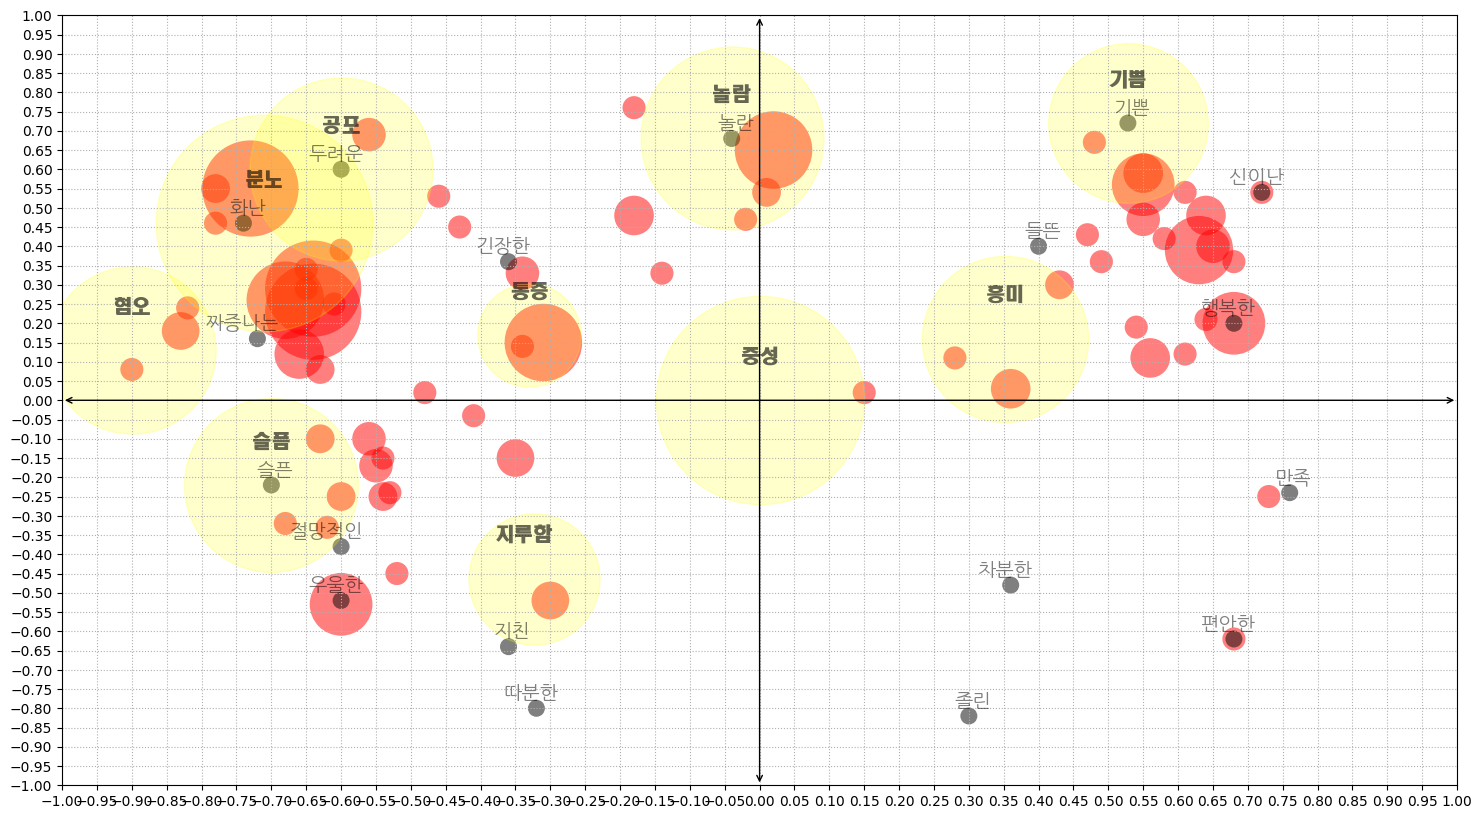
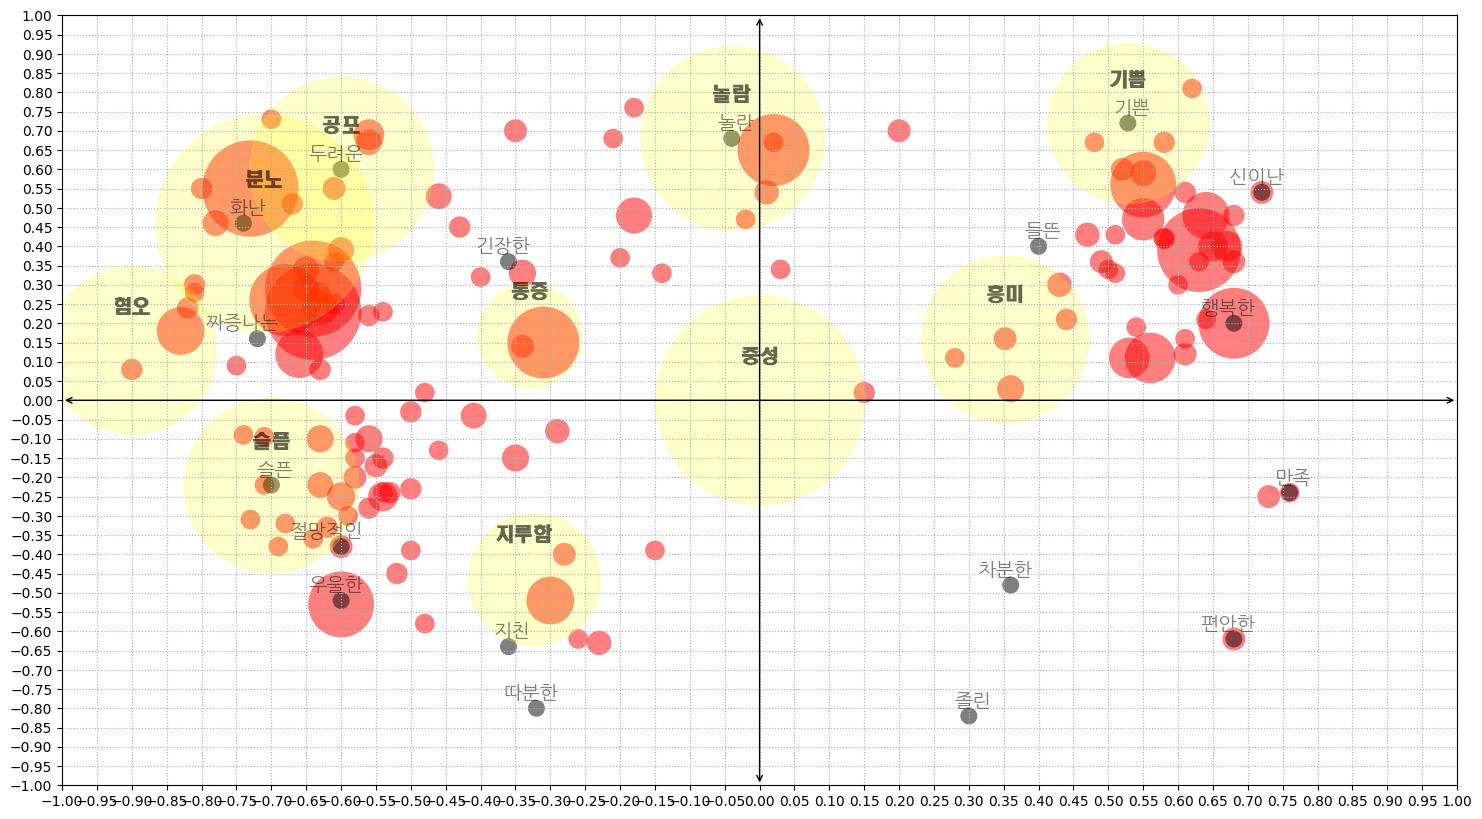
#2 형태소 분석과 단어 매칭을 한번에 (미수정부분 처리)

diff --git a/src/main.py b/src/main.py
@@ -110,24 +110,19 @@ def run():
         # input_file = file_path
         input_file = 'dataset/twitter1.csv'
         output_file = 'output/output.txt'
-        matching_complete = 'output/matching_complete.txt'
 
         print(input_file, '분석중....')
         # 형태소분석
         print('형태소 분석/매칭 시작')
         morpheme_analysis(input_file, output_file)
 
-        # 감정단어사전 매칭
-        print('감성사전 매칭')
-        word_count.word_check(output_file, matching_complete)
-
         # 워드클라우드 생성
         print('워드클라우드 생성')
-        create_wordcloud(matching_complete)
+        create_wordcloud(output_file)
 
         # 러셀모델에 플로팅
         print('모델에 플로팅')
-        russel_floating.run(matching_complete)
+        russel_floating.run(output_file)
 
 run()
 

diff --git a/src/word_count.py b/src/word_count.py
@@ -7,7 +7,6 @@ from soynlp.hangle import compose, decompose
 # todo test셋도 csv파일 기반으로 만들고 테스트 돌려보기
 
 
-# def word_check(input_file, output_file):
 def word_check(word, output):
     import timeit
     start = timeit.default_timer()
@@ -39,7 +38,6 @@ def word_check(word, output):
     else:
         # print('{} : {}'.format(word, candidates))
         cand_list = list(candidates)
-        print(list(cand_list[0])[0])
         output.write(list(cand_list[0])[0] + '\n')
 
 
